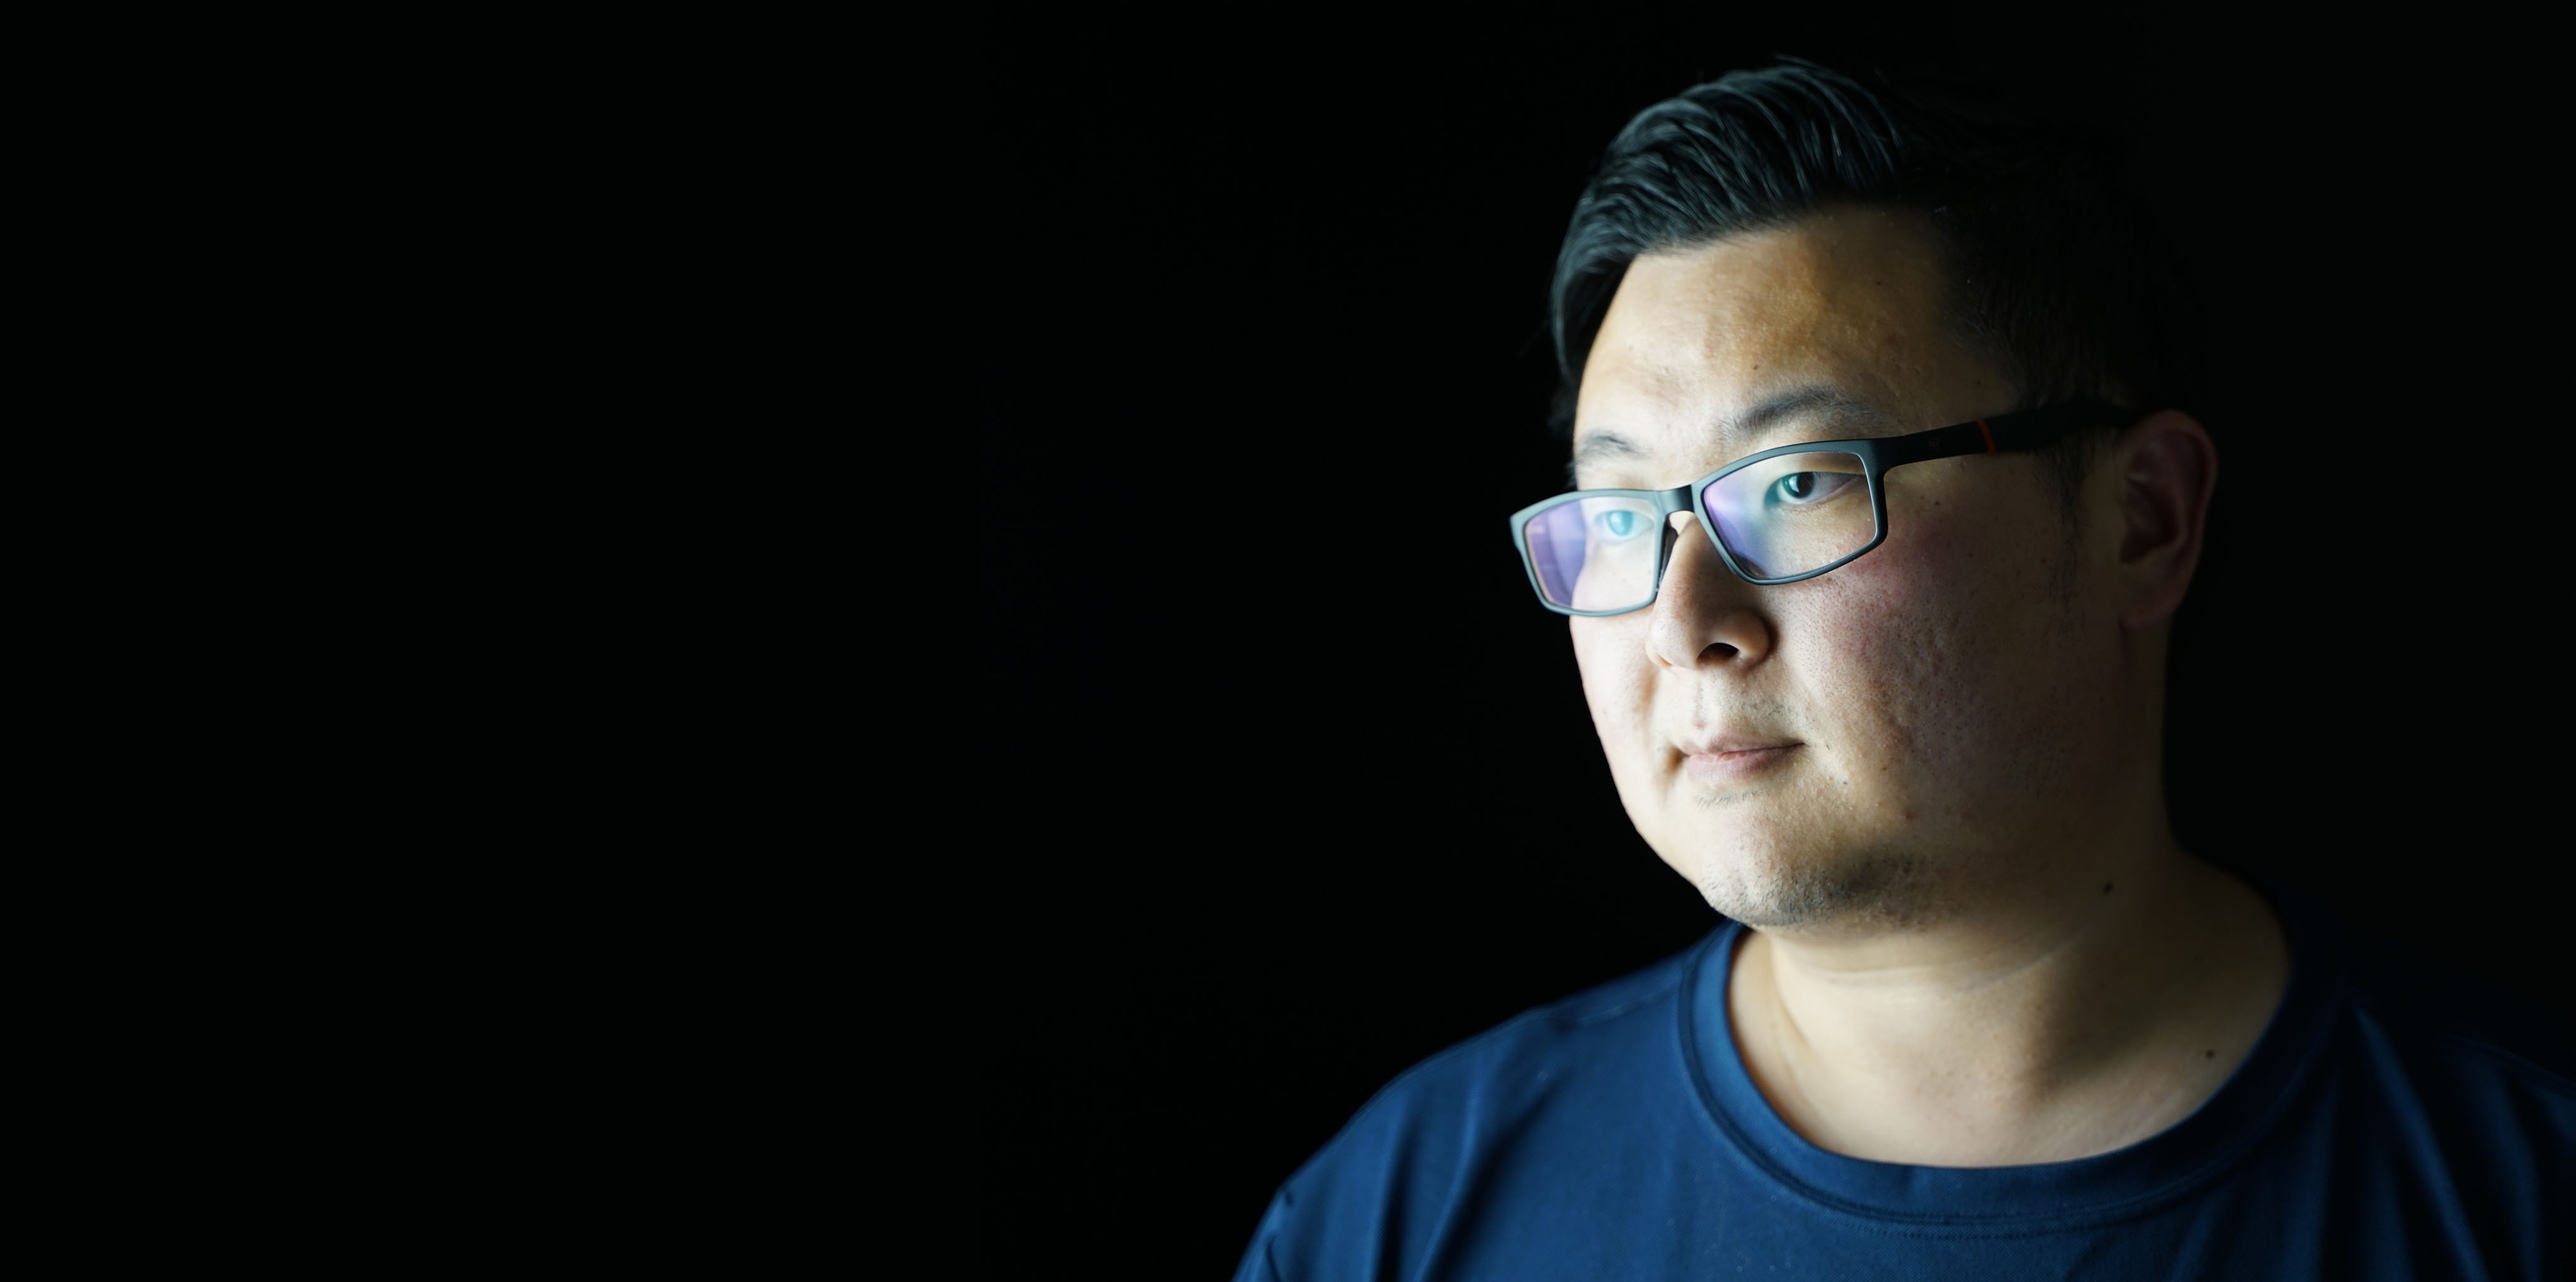
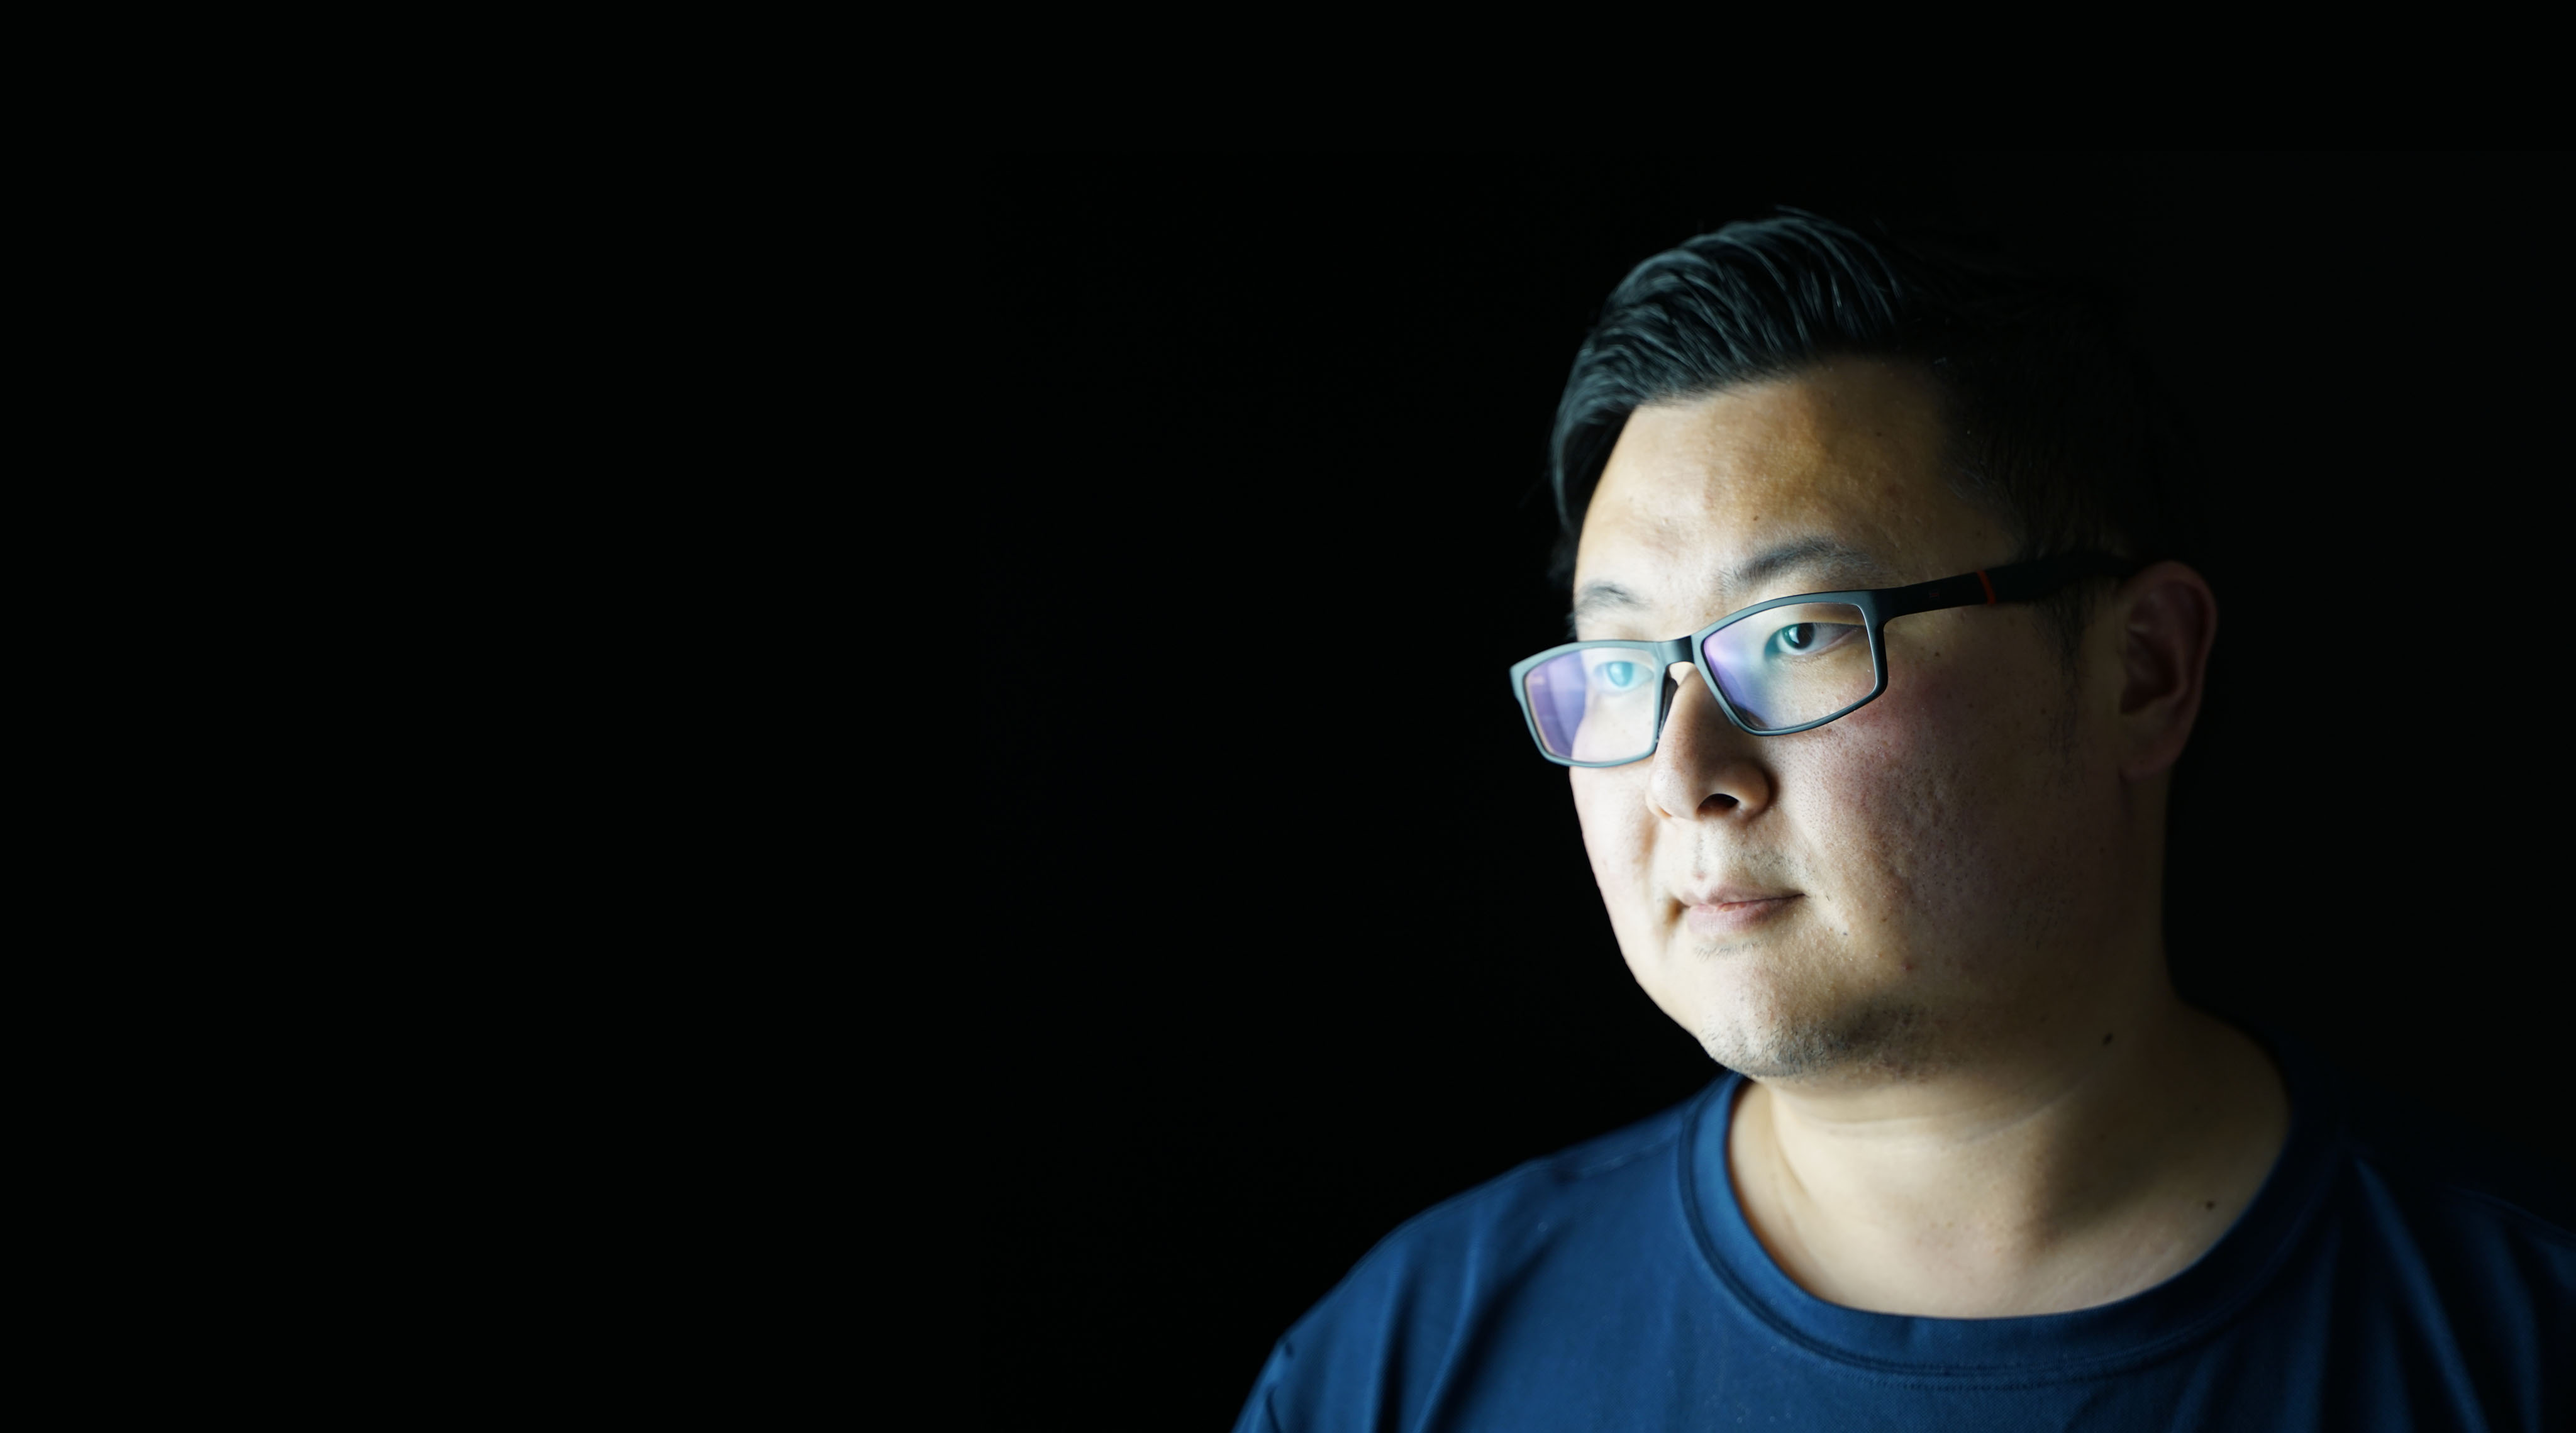
pics

diff --git a/css/main.css b/css/main.css
@@ -810,11 +810,13 @@ E
     -webkit-background-size: cover;
     -o-background-size: cover;
     background-repeat: no-repeat;
-    overflow: auto;
+    /*overflow: auto;*/
+    /*display: inline-block;*/
+    overflow: hidden;
     align-content: flex-end;
 
     color: #cfcfcf;
-    height: 500px;
+    height: 800px;
     margin-top: 0px;
     /*z-index: 1;*/
 }
